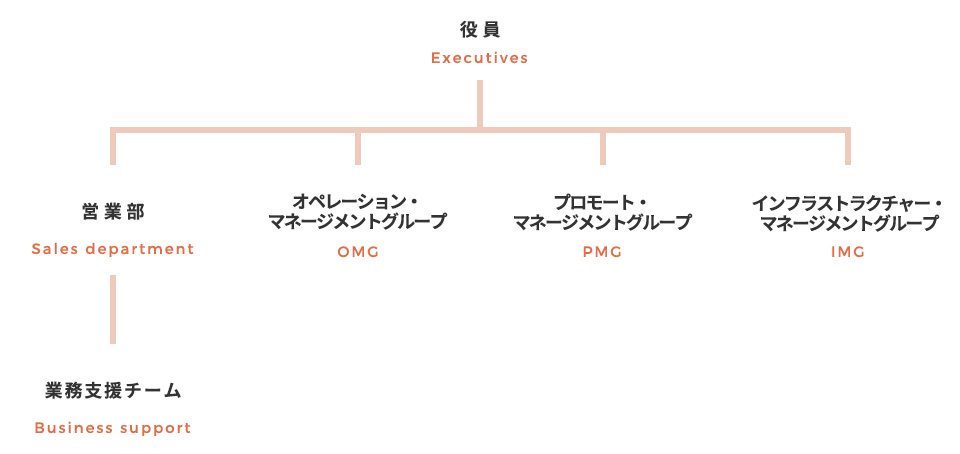
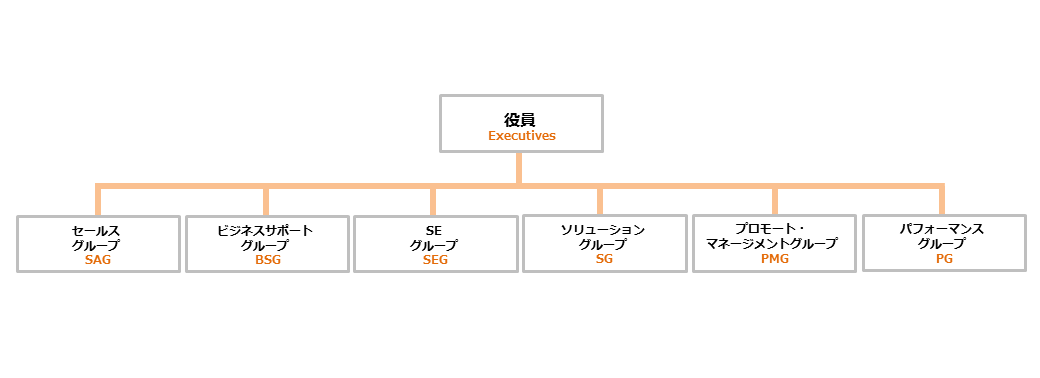
部門紹介の画像と、テキストの更新

diff --git a/src/company/departments.html b/src/company/departments.html
@@ -34,7 +34,7 @@ title: 部門紹介 | IHS新卒・中途採用サイト
                             </thead>
                             <tbody>
                                 <tr>
-                                    <th class="dash dept">営業部</th>
+                                    <th class="dash dept">セールスグループ（SAG）</th>
                                     <td class="dash">
                                         <ul>
                                             <li>新規顧客及び既存顧客の契約獲得及び拡販</li>
@@ -44,46 +44,51 @@ title: 部門紹介 | IHS新卒・中途採用サイト
                                     </td>
                                 </tr>
                                 <tr>
-                                    <th class="dept">&emsp;業務支援チーム</th>
+                                    <th class="dept">ビジネスサポートグループ（BSG）</th>
                                     <td class="support">
                                         <ul>
-                                            <li>営業アシスタント業務、人事、総務、庶務、労務</li>
-                                            <li>採用、社員教育事務局（研修カリキュラムの策定等）、社員サポート</li>
+                                            <li>営業アシスタント業務、人事、総務、庶務、労務、経理、採用</li>
+                                            <li>WEBコンテンツ作成</li>
                                         </ul>
                                     </td>
                                 </tr>
                                 <tr>
-                                    <th class="dept">オペレーション・
-                                        <br /> マネージメントグループ（OMG）
-                                    </th>
+                                    <th class="dept">SEグループ（SEG）</th>
                                     <td>
                                         <ul>
-                                            <li>お客様のシステムの運用</li>
-                                            <li>改善提案、サポート及びシステム構築業務</li>
-                                            <li>新入社員技術教育</li>
+                                            <li>システムの運用、改善提案、サポート及び構築業務（客先常駐）</li>
+                                        </ul>
+                                    </td>
+                                </tr>
+                                <tr>
+                                    <th class="dept">ソリューショングループ（SG)</th>
+                                    <td>
+                                        <ul>
+                                            <li>サーバやネットワークを含むインフラ基盤の新規設計構築</li>
+                                            <li>バージョンアップ、システム集約の請負業務</li>
+                                            <li>仮想環境及びクラウドサービスを活用した提案、構築（大規模ユーザ）</li>
+                                            <li>社内システム管理</li>
                                         </ul>
                                     </td>
                                 </tr>
                                 <tr>
                                     <th class="dept">プロモート・
-                                        <br />マネージメントグループ（PMG）</th>
+                                        <br /> マネージメントグループ（PMG）
+                                    </th>
                                     <td>
                                         <ul>
                                             <li>セキュリティに関する製品の販売、導入、運用及び保守サポート</li>
                                             <li>IT資産管理（ライセンス管理・ハードウエア管理）</li>
-                                            <li>Webコンテンツの制作、運用管理</li>
                                         </ul>
                                     </td>
                                 </tr>
                                 <tr>
-                                    <th class="dept">インフラストラクチャ・
-                                        <br /> マネージメントグループ（IMG）
+                                    <th class="dept">パフォーマンスグループ（PG）
                                     </th>
                                     <td>
                                         <ul>
-                                            <li>サーバやネットワークを含むインフラ基盤の新規設計構築</li>
-                                            <li>バージョンアップ、システム集約の請負業務</li>
-                                            <li>仮想環境やクラウドサービスの活用提案、および構築</li>
+                                            <li>性能管理ソリューションに特化したサービスのサポート</li>
+                                           
                                         </ul>
                                     </td>
                                 </tr>
